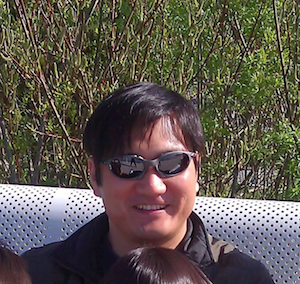
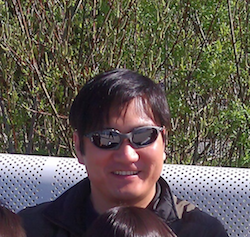
changing size of images and adding info to about.html

diff --git a/about.html b/about.html
@@ -8,22 +8,22 @@
   <h1>About Us</h1>
 </heading>
 <body>
-  <section>
+  <section id="about">
     <h3>Carl Olson</h3>
     <img src="img/carl.png">
-    <p></p>
+    <p>Lorem ipsum dolor sit amet consectetur, adipisicing elit. Minima, deleniti dolor. Laboriosam inventore optio a! Soluta accusamus velit mollitia fugit repellat adipisci, aliquam quia totam quisquam debitis est distinctio quasi.</p>
     <h3>Judah Hunger</h3>
     <img src="img/Judah.png">
-    <p></p>
+    <p>Lorem ipsum dolor sit amet consectetur adipisicing elit. Explicabo quos ipsa illo necessitatibus optio? Aliquid fugit, illo doloremque inventore est deleniti, deserunt eos cum aliquam facere iure dolores. Natus, provident.</p>
     <h3>Peter Kim</h3>
     <img src="img/Peter.png">
-    <p></p>
+    <p>Lorem ipsum dolor, sit amet consectetur adipisicing elit. Repellendus possimus officia aperiam, distinctio voluptate corporis architecto error consequuntur eius, adipisci quod vero unde sapiente facilis aut. Esse hic doloremque sequi.</p>
     <h3>Kris Sakarias</h3>
     <img src="img/Kris.png">
-    <p></p>
+    <p>Lorem ipsum dolor sit amet consectetur adipisicing elit. Fugit odit, eum ut beatae repudiandae blanditiis, natus quibusdam sint ducimus dignissimos nam! Voluptatum eos non culpa molestias illum voluptas libero quia.</p>
     <h3>Josh West</h3>
     <img src="img/Josh.png">
-    <p></p>
+    <p>Lorem ipsum dolor sit amet consectetur adipisicing elit. Rem soluta corrupti perspiciatis voluptatum accusamus sequi vel consectetur, iure provident omnis esse? Provident nulla iusto quod, animi amet rerum eaque adipisci?</p>
   </section>
   
 </body>
